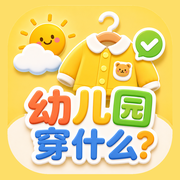
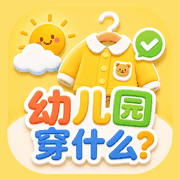
压缩图标 PNG（512:270→105KB，180:44→19KB，约-60%），加快主屏图标加载；SW v6

diff --git a/sw.js b/sw.js
@@ -1,5 +1,5 @@
 // 幼儿园穿什么 · Service Worker
-const CACHE = 'kg-v5';
+const CACHE = 'kg-v6';
 // 这些跨域资源也做缓存（字体/截图库）→ 重复打开/离线更快
 const RUNTIME_HOSTS = ['fonts.googleapis.com', 'fonts.gstatic.com', 'cdnjs.cloudflare.com'];
 const ASSETS = [
